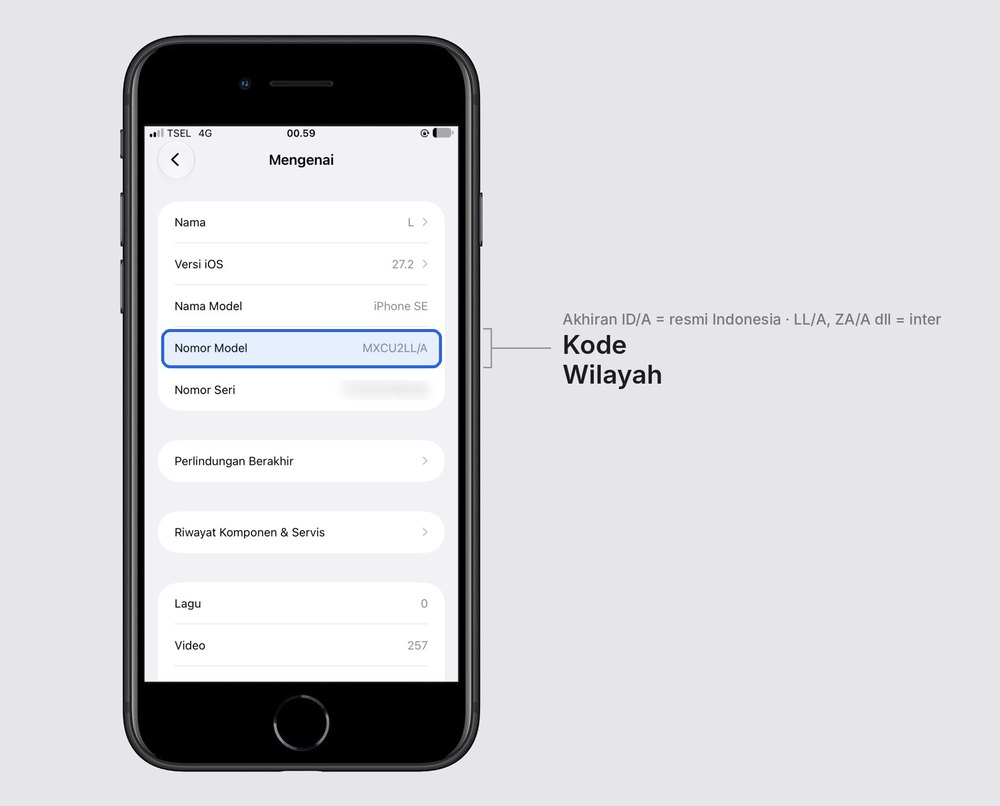
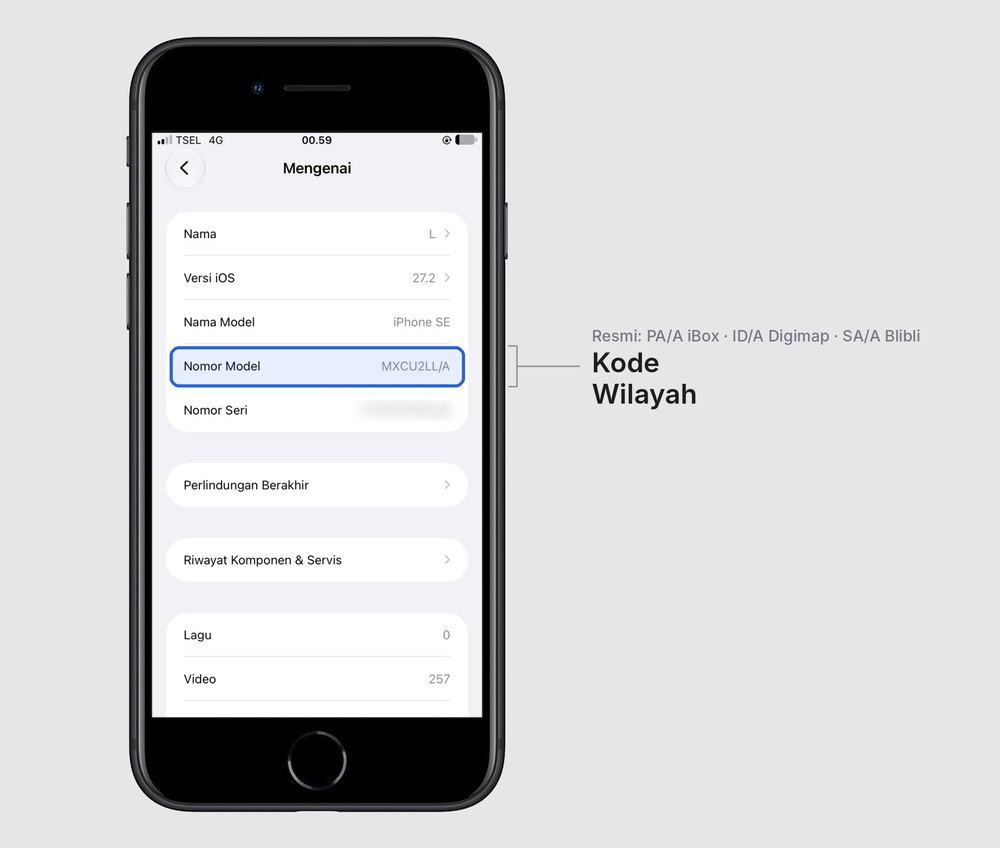
Kode wilayah resmi, opsi Blur + alasan OIS di kamera, hapus Catat IMEI, nonaktifkan sementara ceirku
Claude-Session: https://claude.ai/code/session_01T5xMfUmYxqi5fKuphGFddX

diff --git a/index.html b/index.html
@@ -161,9 +161,9 @@ const SEC=[
 "d": "Tanyakan ke penjual, lalu cocokkan dengan kondisi unit dan kelengkapannya.",
 "w": [
 "iBox (resmi): unit distribusi resmi di Indonesia dengan garansi resmi. Karena itu cek box resmi pada bagian Persiapan.",
-"Inter: unit impor (garansi internasional, bukan distribusi resmi). IMEI belum tentu terdaftar di Indonesia, jadi wajib test kartu by.U/Telkomsel dan cek IMEI di ceirku.org.",
+"Inter: unit impor (garansi internasional, bukan distribusi resmi). IMEI belum tentu terdaftar di Indonesia, jadi wajib test kartu by.U/Telkomsel",
 "Bea Cukai: unit inter yang IMEI-nya didaftarkan dan dibayar bea/pajaknya lewat Bea Cukai, sehingga umumnya berstatus terdaftar (bukan roamer). Minta bukti pendaftarannya dan tetap cek IMEI.",
-"Cocokkan dengan akhiran Nomor Model (Settings › General › About): ID/A = resmi Indonesia, LL/A, ZA/A, ZP/A, J/A dan sejenisnya = inter. Jika penjual bilang resmi tapi kodenya bukan ID/A, harap tanyakan.",
+"Cocokkan dengan akhiran Nomor Model (Settings › General › About). Unit resmi Indonesia: PA/A = iBox, ID/A = Digimap, SA/A = Blibli. LL/A, ZA/A, ZP/A, J/A dan sejenisnya = inter. Jika penjual bilang resmi tapi kodenya bukan PA/A, ID/A, atau SA/A, harap tanyakan.",
 "Mengetahui asal unit membantu menentukan pengecekan mana yang wajib, dan mencegah unit inter dijual sebagai unit resmi."
 ],
 "o": [
@@ -437,7 +437,7 @@ const SEC=[
 "d": "Settings › General › About › Model Number (Pengaturan › Umum › Mengenai › Nomor Model). Jika yang tampil diawali huruf A (cth A2296), ketuk sekali untuk melihat kode lengkapnya.",
 "w": [
 "Huruf pertama Model Number umumnya menunjukkan asal unit: M = unit baru, F = refurbish, N = unit pengganti garansi, P = custom. Pastikan sesuai dengan keterangan penjual (inter/resmi).",
-"Akhiran kode menunjukkan wilayah: ID/A = resmi Indonesia (iBox/Digimap). LL/A (Amerika), ZA/A (Singapura), ZP/A (Hong Kong), J/A (Jepang), dan sejenisnya = unit inter."
+"Akhiran kode menunjukkan wilayah. Resmi Indonesia: PA/A = iBox, ID/A = Digimap, SA/A = Blibli. LL/A (Amerika), ZA/A (Singapura), ZP/A (Hong Kong), J/A (Jepang), dan sejenisnya = unit inter."
 ],
 "o": [
 "Sesuai",
@@ -499,9 +499,9 @@ const SEC=[
 "img": ["img/contoh/contoh-magsafe.jpg"],
 "k": "r",
 "s": "MagSafe / wireless charging",
-"d": "Tempelkan MagSafe charger atau taruh iPhone di wireless charger, dengan bagian belakang iPhone menghadap charger. Harus muncul indikator mengisi daya. iPhone 12 ke atas (kecuali 16e) punya magnet MagSafe, jadi charger MagSafe juga harus menempel kuat. iPhone 8, 8 Plus, X, XR, XS, 11, SE 2020/2022, dan 16e tidak punya magnet: cukup pastikan mengisi daya (tahan posisi charger).",
+"d": "Tempelkan MagSafe charger atau taruh iPhone di wireless charger, dengan bagian belakang iPhone menghadap charger. Harus muncul indikator mengisi daya. Semua iPhone 8 ke atas (termasuk iPhone 11 dan SE 2020/2022) sudah support wireless charging. Magnet MagSafe baru ada mulai iPhone 12 (kecuali 16e), jadi di iPhone 12 ke atas charger MagSafe juga harus menempel kuat. Di iPhone 8 sampai 11, SE 2020/2022, dan 16e, charger MagSafe tetap bisa mengisi daya tapi tidak menempel, jadi tahan posisinya.",
 "w": [
-"Koil wireless charging (dan magnet MagSafe di iPhone 12 ke atas) ada di bagian belakang iPhone. Jika tidak mengisi daya, atau magnet MagSafe tidak menempel, ada indikasi housing (bodi belakang) sudah diganti atau koilnya rusak.",
+"Koil wireless charging ada di bagian belakang semua iPhone 8 ke atas, termasuk iPhone 11. Mulai iPhone 12 (kecuali 16e), di bagian itu juga ada magnet MagSafe. Jika tidak mengisi daya, atau magnet MagSafe tidak menempel, ada indikasi housing (bodi belakang) sudah diganti atau koilnya rusak.",
 "Fitur wireless charging dan aksesori MagSafe (charger, casing, dompet) juga tidak bisa dipakai normal."
 ],
 "o": [
@@ -633,7 +633,7 @@ const SEC=[
 },
 {
 "h": "Kamera",
-"d": "Boleh pilih lebih dari satu (getar dan jamur). Getar = stabilizer kamera bermasalah. Jamur = bercak/kabut di lensa. Blank = kamera hitam/tidak terbaca (harap CANCEL).",
+"d": "Boleh pilih lebih dari satu (getar dan jamur). Getar = stabilizer kamera bermasalah. Blur = gambar buram/tidak fokus. Jamur = bercak/kabut di lensa. Blank = kamera hitam/tidak terbaca (harap CANCEL).",
 "i": [
 {
 "id": "c05",
@@ -643,6 +643,7 @@ const SEC=[
 "o": [
 "Normal",
 "Getar!",
+"Blur!",
 "Jamur!",
 "Blank!!",
 "Tidak ada di seri ini"
@@ -656,6 +657,7 @@ const SEC=[
 "o": [
 "Normal",
 "Getar!",
+"Blur!",
 "Jamur!",
 "Blank!!"
 ]
@@ -669,6 +671,7 @@ const SEC=[
 "o": [
 "Normal",
 "Getar!",
+"Blur!",
 "Jamur!",
 "Blank!!",
 "Tidak ada di seri ini"
@@ -683,6 +686,7 @@ const SEC=[
 "o": [
 "Normal",
 "Getar!",
+"Blur!",
 "Jamur!",
 "Blank!!",
 "Tidak ada di seri ini"
@@ -701,6 +705,7 @@ const SEC=[
 "o": [
 "Normal",
 "Getar!",
+"Blur (gambar tidak fokus)!",
 "Jamur!",
 "Blank!!",
 "Tidak ada TrueDepth (iPhone 8 ke bawah, SE)"
@@ -715,6 +720,7 @@ const SEC=[
 "o": [
 "Normal",
 "Getar!",
+"Blur!",
 "Jamur!",
 "Blank!!"
 ]
@@ -739,13 +745,6 @@ const SEC=[
 "Tidak sesuai / housing gantian!",
 "Tidak ada IMEI di SIM tray!"
 ]
-},
-{
-"id": "imei_n",
-"t": "Catat IMEI",
-"k": "t",
-"s": "IMEI",
-"ph": "15 digit IMEI"
 },
 {
 "id": "kartu",
@@ -939,8 +938,9 @@ const HOME_T=P(["6","6 Plus","6s","6s Plus","SE (2016)","7","7 Plus","8","8 Plus
 const NOTCH_T=P(["13 mini","13","13 Pro","13 Pro Max","14","14 Plus","16e"]); // gambar contoh pakai frame poni (notch)
 const VIS={cyc:t=>!PRE15.includes(t),silent:t=>!ACTION_T.includes(t),action:t=>ACTION_T.includes(t),camctl:t=>CAMCTL_T.includes(t),
   // Asal unit: iBox = tanpa cek IMEI eksternal; Inter = ceirku.org; Bea Cukai = website Bea Cukai
-  ceirku:()=>S.asal!=="iBox (resmi)"&&S.asal!=="Bea Cukai",
-  ceir_tgl:()=>S.asal!=="iBox (resmi)"&&S.asal!=="Bea Cukai",
+  // ceirku.org & masa berlaku IMEI: dinonaktifkan sementara (aturan lama: tampil jika bukan iBox dan bukan Bea Cukai)
+  ceirku:()=>false,
+  ceir_tgl:()=>false,
   bc:()=>S.asal==="Bea Cukai",
   // Frame gambar contoh: tombol home, poni (notch), atau Dynamic Island
   frhome:t=>HOME_T.includes(t),frnotch:t=>NOTCH_T.includes(t),frisland:t=>!HOME_T.includes(t)&&!NOTCH_T.includes(t),nothome:t=>!HOME_T.includes(t)};
@@ -954,8 +954,12 @@ if(/^Tidak ada MagSafe/.test(S.magsafe||""))delete S.magsafe; // pilihan lama, d
 for(const k in S){if(Array.isArray(S[k]))S[k]=S[k].map(x=>REN[x]||x);else if(REN[S[k]])S[k]=REN[S[k]]}
 
 // ===== Keterangan otomatis =====
+const OIS_TXT="⚠ Ada kemungkinan kerusakan pada modul kamera belakang, khususnya komponen OIS (Optical Image Stabilization). OIS adalah penstabil lensa (magnet dan motor kecil) yang meredam goyangan tangan saat memotret dan merekam. Jika rusak, gambar bisa bergetar, sulit fokus, atau buram. Penyebab umumnya bekas jatuh/benturan atau getaran kuat terus-menerus (misalnya HP dipasang di holder motor). Perbaikannya biasanya harus ganti modul kamera.";
+const camBad=id=>(S[id]||[]).some(x=>x.indexOf("Getar")==0||x.indexOf("Blur")==0);
 const DYN={box:()=>{const a=S.box||[];const bad=a.some(x=>x.indexOf("Dus terasa ringan")==0||x.indexOf("Tatakan plastik")==0||x.indexOf("Label tanpa")==0);
   return bad?"📦 Keterangan: dus/box tersebut OEM (bukan dus original resmi dari importir).":""}};
+for(const id of ["c05","c1","c2","c5","cvid"])DYN[id]=()=>camBad(id)?OIS_TXT:"";
+DYN.cpot=()=>camBad("cpot")?"⚠ Ada kemungkinan kerusakan pada modul kamera depan (lensa atau mekanisme fokusnya). Gambar yang bergetar atau buram biasanya karena bekas benturan atau komponen kamera depan yang sudah diganti, dan perbaikannya umumnya harus ganti modul kamera depan.":"";
 
 function renderColors(){
   const el=$("#opts_warna");if(!el)return;

diff --git a/sw.js b/sw.js
@@ -1,4 +1,4 @@
-const C="cek-iphone-v16";
+const C="cek-iphone-v17";
 const CORE=["./","./index.html"];
 self.addEventListener("install",e=>{
   // cache:"reload" = ambil langsung dari server, jangan dari cache browser
